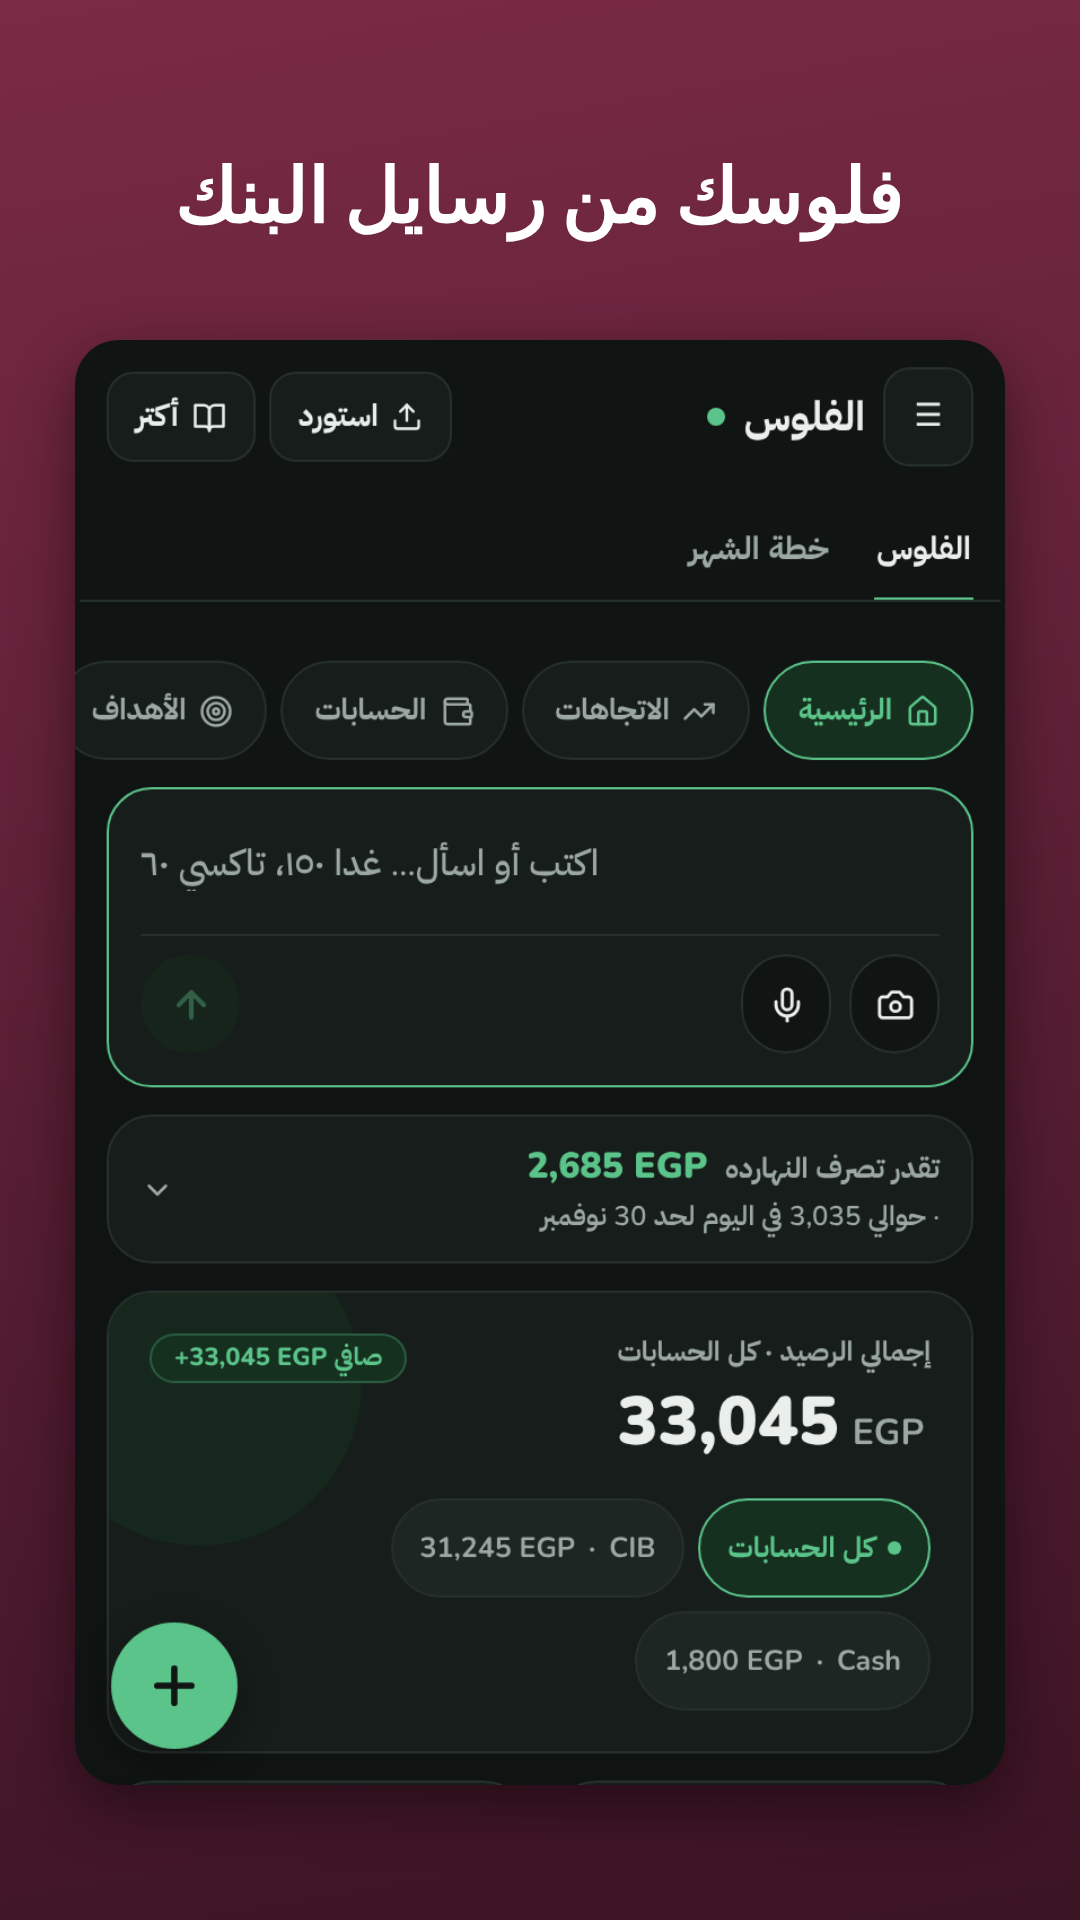
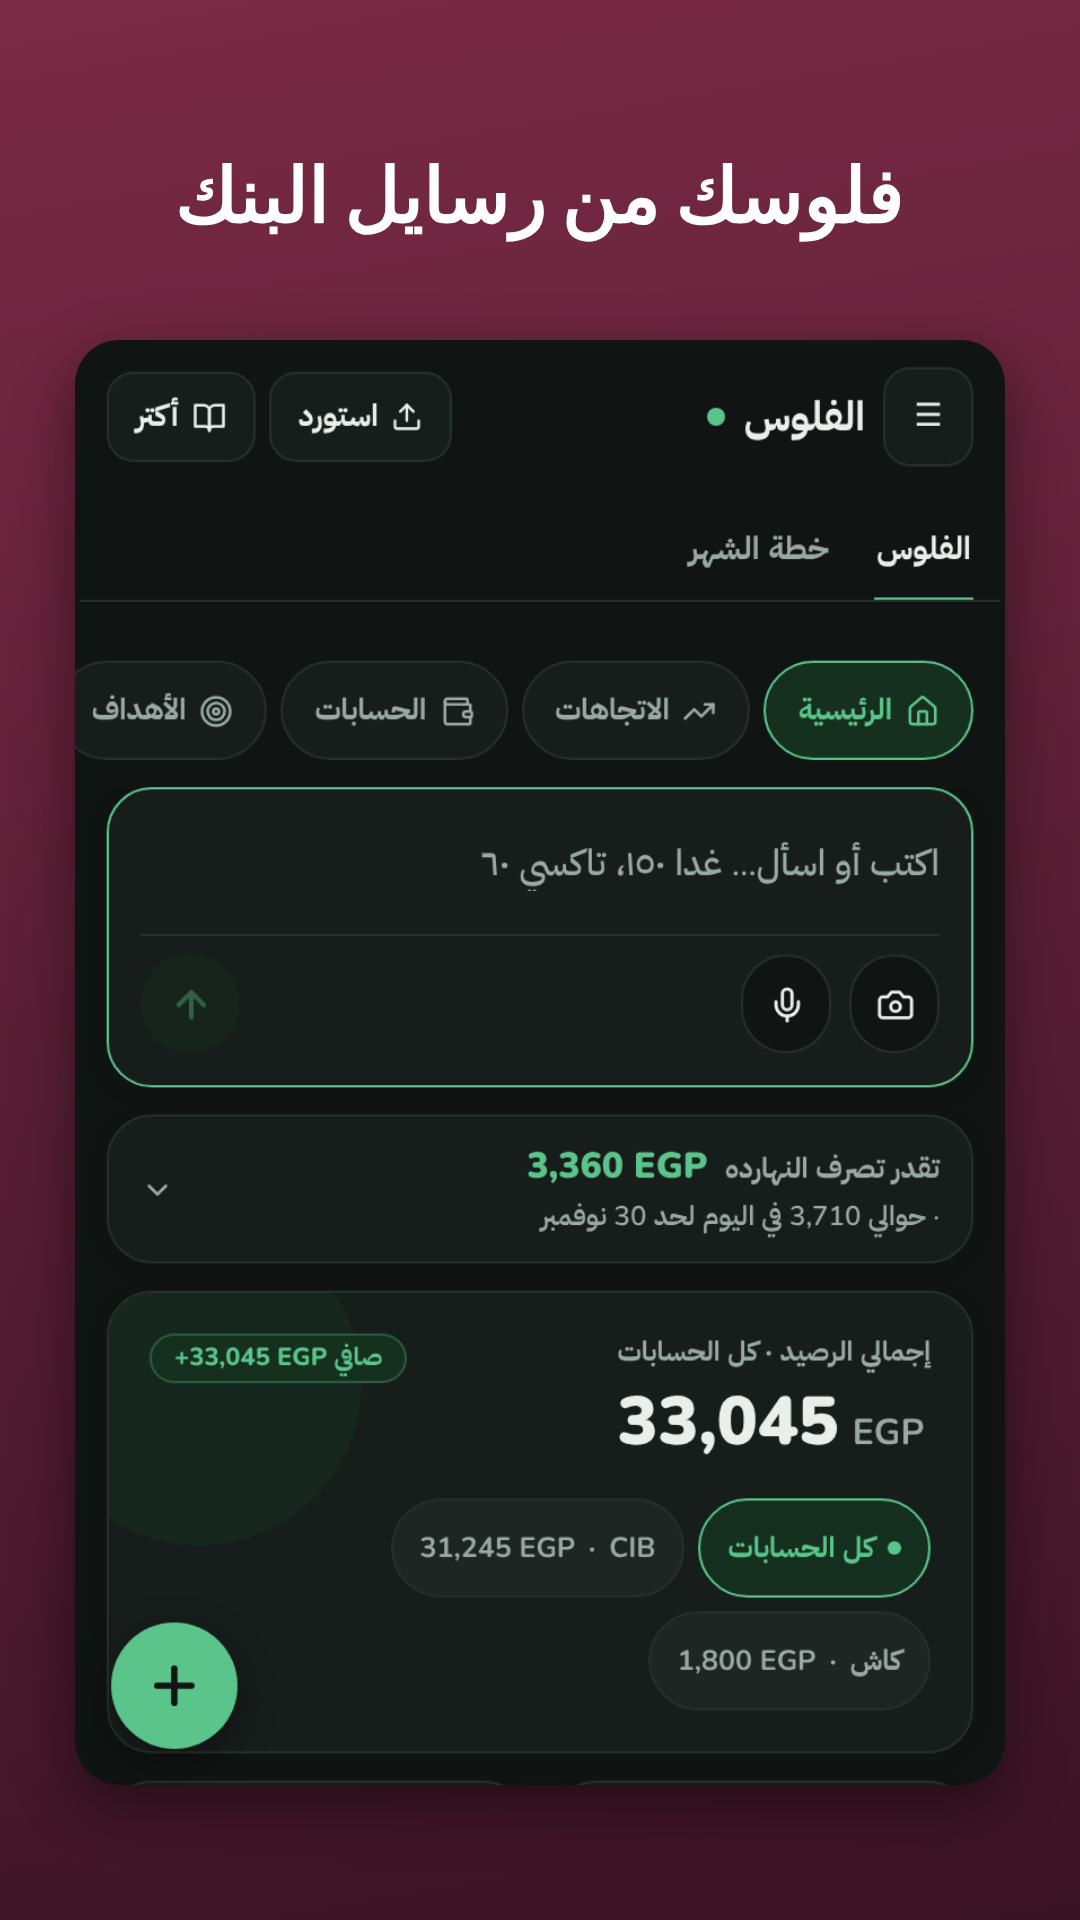
Store screenshots remade from v10.8 (a fixed 8:30 morning in the data and the browser clock — run at night the to-dos read «4:00 ص»; the Arabic account «كاش»); launch plan: CR3 done, ST1 + SS1 + LG1 re-confirmed, e-mail and video left
Claude-Session: https://claude.ai/code/session_01Xcn9RMG35Hs1b1QrHhamJN

diff --git a/tests/store/shots.py b/tests/store/shots.py
@@ -9,7 +9,8 @@ from playwright.sync_api import sync_playwright
 from harness import Env, new_page
 env = Env(); errors = []
 ROOT = os.path.join(os.path.dirname(__file__), "..", "..", "docs", "store")
-now = datetime.datetime.now(); ms = lambda d=0, h=0, m=0: int((now.replace(minute=0, second=0, microsecond=0) + datetime.timedelta(days=d, hours=h + 1, minutes=m)).timestamp() * 1000)   # later than now: never "late"
+# a fixed morning (8:30 today) in the data AND the browser's clock — run at 3 am, the to-dos read «4:00 ص» (v10.8)
+now = datetime.datetime.now().replace(hour=8, minute=30, second=0, microsecond=0); ms = lambda d=0, h=0, m=0: int((now.replace(minute=0, second=0, microsecond=0) + datetime.timedelta(days=d, hours=h + 1, minutes=m)).timestamp() * 1000)   # later than now: never "late"
 iso = lambda d=0: (now + datetime.timedelta(days=d)).date().isoformat()
 LEDGER = {"accounts": [{"id": "a1", "name": "CIB", "currency": "EGP"}, {"id": "a2", "name": "Cash", "currency": "EGP"}],
   "txns": [{"id": "t1", "type": "income", "amount": 32000, "cat": "salary", "account": "a1", "date": iso(-19), "note": "Salary"},
@@ -30,6 +31,7 @@ def data(lang):
            {"id": "r3", "title": t[2], "at": ms(3), "repeat": "none", "created": ms(-2)}, {"id": "r4", "title": t[3], "at": ms(5), "repeat": "month", "created": ms(-30)},
            {"id": "r5", "title": t[4], "at": ms(6), "repeat": "year", "created": ms(-40)}]
     led = json.loads(json.dumps(LEDGER)); led["currency"] = "EGP"
+    if lang == "ar": led["accounts"][1]["name"] = "كاش"   # the first account takes the app's language (v10.8)
     for x, nm in zip(led["txns"], t[5:11]): x["note"] = nm
     lists = {"lists": [{"id": "l1", "name": "Talabat" if lang == "en" else "طلبات", "emoji": "🛒", "items": [{"id": "i%d" % i, "text": x, "done": i < 2} for i, x in enumerate(t[11])], "repeat": {"every": "once"}, "created": 0},
                        {"id": "l2", "name": t[12], "emoji": "✈", "items": [{"id": "j%d" % i, "text": x, "done": False} for i, x in enumerate(t[13])], "repeat": {"every": "once"}, "created": 0}]}
@@ -62,7 +64,7 @@ with sync_playwright() as p:
         out = os.path.join(ROOT, lang); os.makedirs(out, exist_ok=True)
         ctx, page = new_page(br, env, errors, legacy_nav=False, extra_init=init(lang))
         page.set_viewport_size({"width": 412, "height": 640})
-        page.goto(env.url); page.wait_for_timeout(2500)
+        page.clock.install(time=now); page.goto(env.url); page.wait_for_timeout(2500)
         for name, mode, en, ar in SHOTS:
             page.evaluate("(m) => window.dispatchEvent(new CustomEvent('attune-open',{detail:{mode:m}}))", mode); page.wait_for_timeout(1600)
             shot = base64.b64encode(page.screenshot()).decode()
@@ -72,7 +74,7 @@ with sync_playwright() as p:
         ctx.close()
         # the computer: the week calendar, for the large-screen slot
         ctx, page = new_page(br, env, errors, legacy_nav=False, desktop=(1366, 768), extra_init=init(lang))
-        page.goto(env.url); page.wait_for_timeout(2800)
+        page.clock.install(time=now); page.goto(env.url); page.wait_for_timeout(2800)
         shot = base64.b64encode(page.screenshot()).decode()
         fp = br.new_page(viewport={"width": 1920, "height": 1080})
         fp.set_content((FRAME % (1920, 1080, "rtl" if lang == "ar" else "ltr", 60, 20, 150, "كل أسبوعك على الكمبيوتر" if lang == "ar" else "Your week on the computer", shot, 1600)).replace("border-radius:44px", "border-radius:18px")); fp.wait_for_timeout(300)

diff --git a/LAUNCH_PLAN_2026-12.md b/LAUNCH_PLAN_2026-12.md
@@ -25,7 +25,8 @@ An **organisation** account (company + D-U-N-S number) skips the 14-day test, bu
       Start / Schedule / Plan / Details / School split or fixed; tests unit v1080arabic + e2e_v1080arabic). Open: the travel guides'
       own text (43 countries, ~214 KB) is English only — a content job, asked to Ali.
 - [x] The app's name in Egyptian Arabic: "Attune" everywhere (Ali picked).
-- [ ] Crash and freeze safety: an on-phone crash log + "Send a report" (nothing sent by itself) — waiting for Ali's CR pick;
+- [x] Crash and freeze safety: an on-phone crash log + "Send a report" (nothing sent by itself) — Ali picked CR3 + OK-CR (20 Nov, re-confirmed
+      22 Nov): one card after Attune closed by itself, the problem never shown, sent through the share sheet (e2e_v1080crash);
       [x] every page < 1 s on a mid-range phone with a full phone (20 Nov, v10.8: Recall 8.6 s → 0.5–0.9 s, the box at 1.7–2.2 s,
       the longest freeze after opening 3.1 → 1.0–1.2 s; Autopilot and "Attune noticed" worked out after the first screen, in pieces).
 
@@ -41,7 +42,9 @@ An **organisation** account (company + D-U-N-S number) skips the 14-day test, bu
 - [ ] Agents: hotels + products checked on the real sites from Egypt; Scout on Dubizzle / Hatla2ee.
 
 ## Week 3 (17–23 Nov): store and speed
-- [ ] Store listing (STORE_LISTING.md): Arabic first, 6 screenshots of the hero flows, a 30-second video.
+- [ ] Store listing (STORE_LISTING.md): Arabic first, 6 screenshots of the hero flows, a 30-second video. **22 Nov:** ST1 + SS1 + LG1
+      re-confirmed; text done (EN + AR), screenshots remade from v10.8 (docs/store/en|ar, a fixed 8:30 morning, «كاش»). Left: the support
+      e-mail (Ali is making one) and the 30-second video.
 - [ ] Data safety, Health Connect, foreground-service and financial-features declarations (REVIEW_P7 list).
 - [x] Size: Python already downloads on first use in the Play build (19 MB); v10.8: shipped language files without removed features'
       lines (22 → 17 MB), the Play build reads barcodes / text through Play services. LG1/LG2 (all languages inside or not) waits for Ali.
